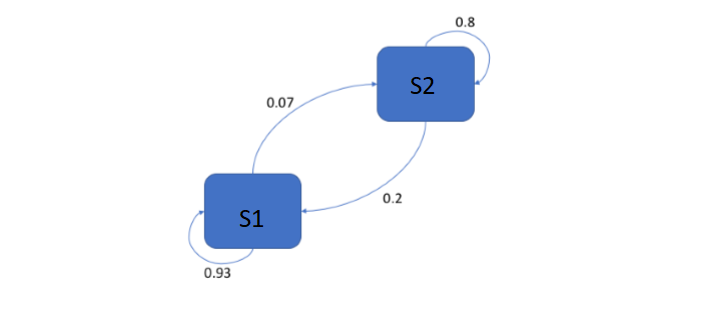
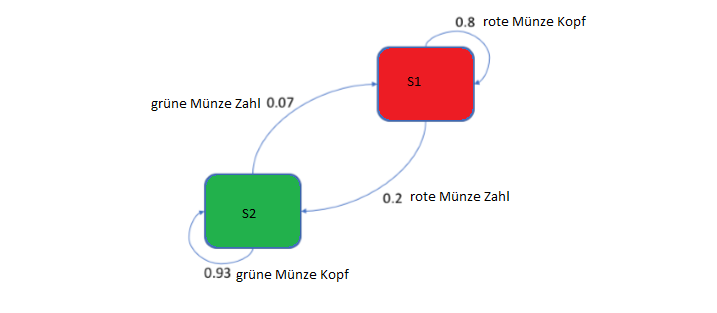
upd zustandsdiagramm and transition matrix

diff --git a/P/04/README.md b/P/04/README.md
@@ -30,7 +30,7 @@ Maximum-Likelihood
 
 | State 1 | State 2 | Transition-likelihood |
 | ------- | ------- | --------------------- |
-| S1	  | S1		| 0.93					|
-| S1	  | S2      | 0.07					|
-| S2	  | S1		| 0.2					|
-| S2	  | S2		| 0.8					|
+| S1	  | S1		| 0.8					|
+| S1	  | S2      | 0.2					|
+| S2	  | S1		| 0.07					|
+| S2	  | S2		| 0.93					|
